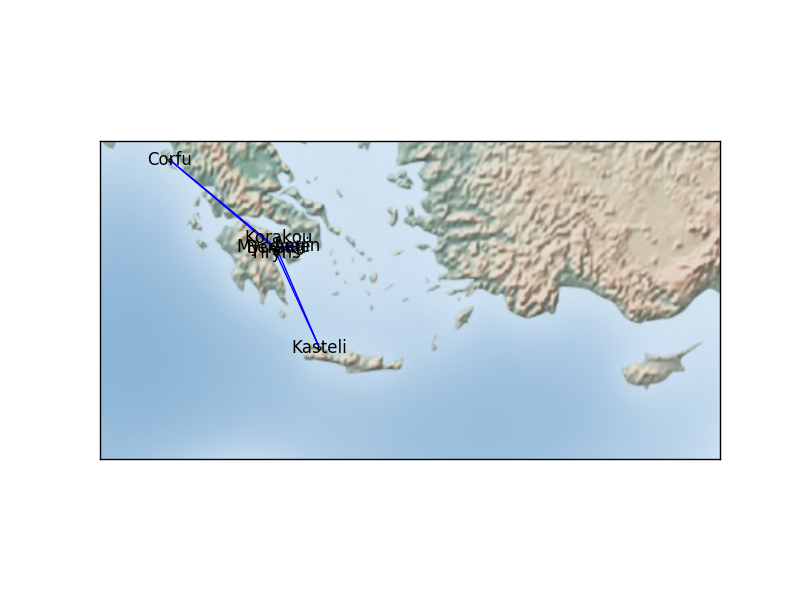
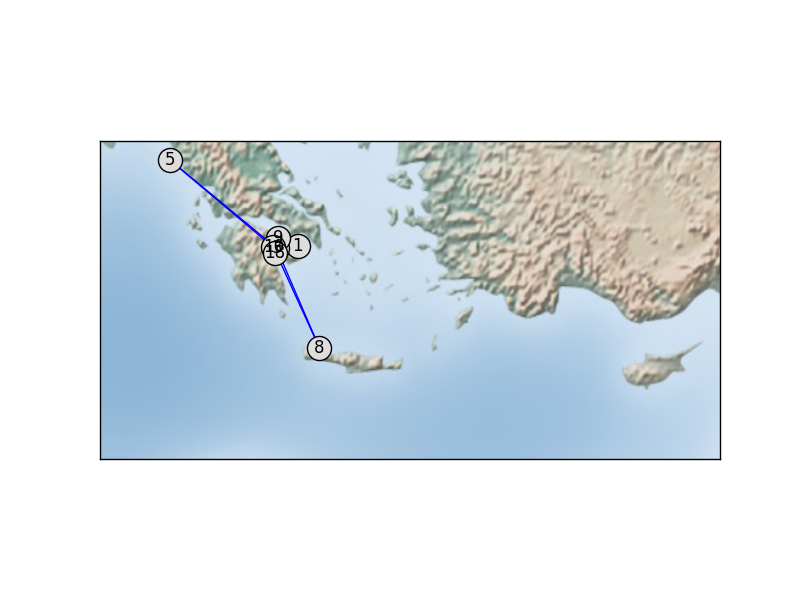
added directed graph

Changed region(s): [[0.2812, 0.36, 0.4062, 0.45], [0.3438, 0.54, 0.4375, 0.6], [0.1875, 0.24, 0.25, 0.3]]

diff --git a/Code/plot_era_network.py b/Code/plot_era_network.py
@@ -1,0 +1,128 @@
+
+# Imports
+
+import numpy
+import matplotlib.pyplot as plt
+import networkx as nx
+from copy import copy
+from mpl_toolkits.basemap import Basemap
+import csv
+
+def plot_era_network(Sim,plot_type='plain',thres=10**(-5),timeline="All_filtered",label_type='names'):
+
+    matrix_type='sim'
+    
+    low_values_indices = Sim < thres # Where values are low
+    high_values_indices = Sim >= thres # Where values are high
+    
+    S_binary=copy(Sim)
+    if matrix_type == 'dist':
+        S_binary[low_values_indices] = 1 
+        S_binary[high_values_indices] = 0
+    elif matrix_type == 'sim':
+        S_binary[low_values_indices] = 0 
+        S_binary[high_values_indices] = 1
+    
+    print S_binary
+    #Draw the random graph
+    g=nx.from_numpy_matrix(S_binary)
+    #Sim
+    plt.figure()
+    zoomparameter = 1
+    if plot_type=='geo':
+        if zoomparameter == 1:
+            m = Basemap(
+                projection='merc',
+                llcrnrlon=18,
+                llcrnrlat=33,
+                urcrnrlon=35,
+                urcrnrlat=40,
+                lat_ts=0,
+                resolution='f',
+                suppress_ticks=True)
+            
+        elif zoomparameter ==2:
+                
+            #        
+            m = Basemap(
+                projection='merc',
+                llcrnrlon=21,
+                llcrnrlat=34.5,
+                urcrnrlon=24.5,
+                urcrnrlat=38.7,
+                lat_ts=0,
+                resolution='i',
+                suppress_ticks=True)
+        elif zoomparameter == 3:
+            #        
+            m = Basemap(
+                projection='merc',
+                llcrnrlon=22,
+                llcrnrlat=37.25,
+                urcrnrlon=23.5,
+                urcrnrlat=38.25,
+                lat_ts=0,
+                resolution='i',
+                suppress_ticks=True)
+
+    
+        with open('coordinates_'+timeline+'.csv', mode='r') as infile:
+            reader = csv.reader(infile)
+            next(reader, None)  # skip the headers
+            positions={}
+            names={}
+            mapping={}
+            count=0
+            for rows in reader:
+                mx,my=m(float(rows[2]),float(rows[1]))
+                positions.update({int(rows[0]):(mx,my)})
+                names.update({int(rows[0]):rows[3]})
+                mapping.update({count: int(rows[0])})
+                count +=1
+
+        g=nx.relabel_nodes(g,mapping) 
+        if label_type=='names':     
+            nx.draw_networkx(g, pos=positions,labels=names,node_size=5,node_color='#dddddd',edge_color='b')
+        elif label_type=='numbers':
+            nx.draw_networkx(g, pos=positions,node_color='#dddddd',edge_color='b')
+
+        # draw coastlines.
+        #m.drawcoastlines()
+        # draw a boundary around the map, fill the background.
+        # this background will end up being the ocean color, since
+        # the continents will be drawn on top.
+        #m.drawmapboundary(fill_color='aqua')
+        #m.fillcontinents(color='coral',lake_color='aqua')
+        #m.drawcountries()
+        #m.drawstates()
+        #m.bluemarble()
+        m.shadedrelief()
+        #m.etopo()
+        #m.drawlsmask(land_color='coral',ocean_color='aqua',lakes=True)
+
+    elif plot_type=='plain':
+
+        
+        with open('coordinates_'+timeline+'.csv', mode='r') as infile:
+            reader = csv.reader(infile)
+            next(reader, None)  # skip the headers
+            names={}
+            mapping={}
+            count=0
+            for rows in reader:
+                names.update({int(rows[0]):rows[3]})
+                mapping.update({count: int(rows[0])})
+                count +=1
+             
+            print names
+            print mapping
+                 
+        g=nx.relabel_nodes(g,mapping) 
+        positions = nx.spring_layout(g, iterations=1000)   
+        if label_type=='names':     
+            nx.draw_networkx(g, pos=positions,labels=names,node_size=5,node_color='#dddddd',edge_color='b')
+        elif label_type=='numbers':
+            nx.draw_networkx(g, pos=positions,node_color='#dddddd',edge_color='b')
+
+    plt.savefig(timeline+'_'+plot_type+'.png')
+

diff --git a/Code/network_for_era.py b/Code/network_for_era.py
@@ -1,5 +1,6 @@
 from SimilaritMatrixCreation import *
 from plot_network import *
+from plot_era_network import *
 import numpy as np
 from mpl_toolkits.basemap import Basemap
 import matplotlib.pyplot as plt
@@ -50,5 +51,6 @@ def network_for_era(timeline):
     filepath = "/Site_specific_data_with_ERA/"
     SimEra = getSimilarityMatrixEra(NormalizationFlag,SimilarityFlag,filepath)
     
-    plot_network(Sim,plot_type='geo',timeline=timeline,thres=thres,label_type='numbers')
+    #plot_network(Sim,plot_type='geo',timeline=timeline,thres=thres,label_type='numbers')
+    plot_era_network(abs(SimEra),plot_type='plain',timeline=timeline,thres=thres,label_type='names')
     

diff --git a/Code/simera.py b/Code/simera.py
@@ -1,0 +1,18 @@
+
+
+from SimilaritMatrixCreation import *
+from plot_network import *
+import numpy as np
+from mpl_toolkits.basemap import Basemap
+import matplotlib.pyplot as plt
+filepath = "/Site_specific_data_with_ERA/"
+
+
+NormalizationFlag = 1 # 0 is normalizing by norm, 1 is scale it, 2 is make it in between [0,1]
+SimilarityFlag = 1 #0 if euclidean DISTANCE (note distance and similarity), 1 if RKHS (mean embedding) with linear kernel, 2 if RKHS with Gaussian kernel
+    
+
+
+SimEra = getSimilarityMatrixEra(NormalizationFlag,SimilarityFlag,filepath)
+    
+plot_network(abs(SimEra),plot_type='plain',label_type='numbers')

diff --git a/Code/mainscript.py b/Code/mainscript.py
@@ -1,6 +1,6 @@
 from network_for_era import *
 
-timeline_list = [ "All_filtered","4000_1400","1399_1300","1299_1200","1199_1050","1050_on_ward"]
+timeline_list = [ "All_filtered"]
 for timeline in timeline_list:
     network_for_era(timeline)
     
